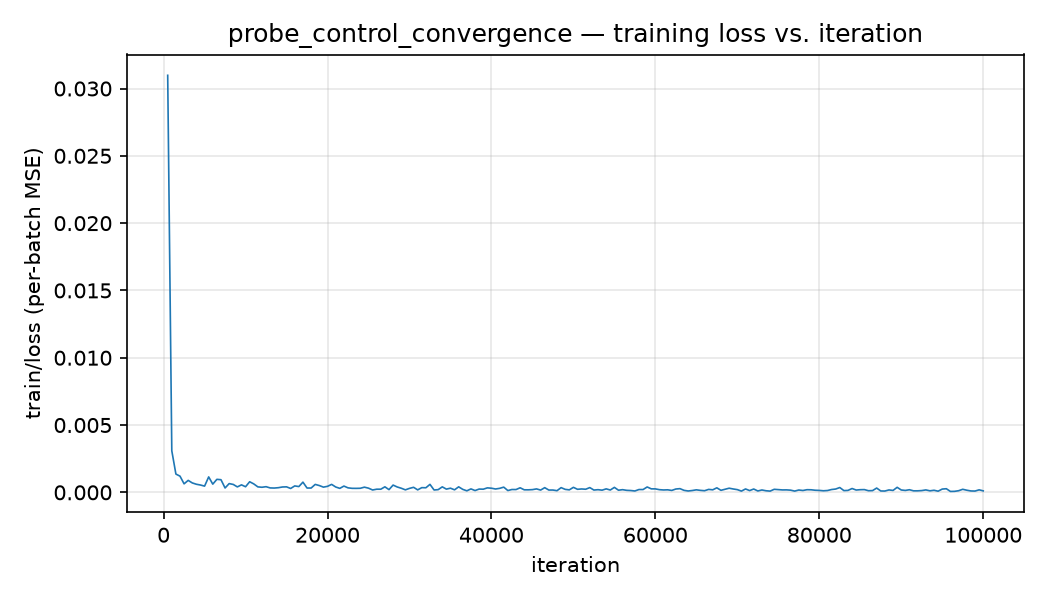
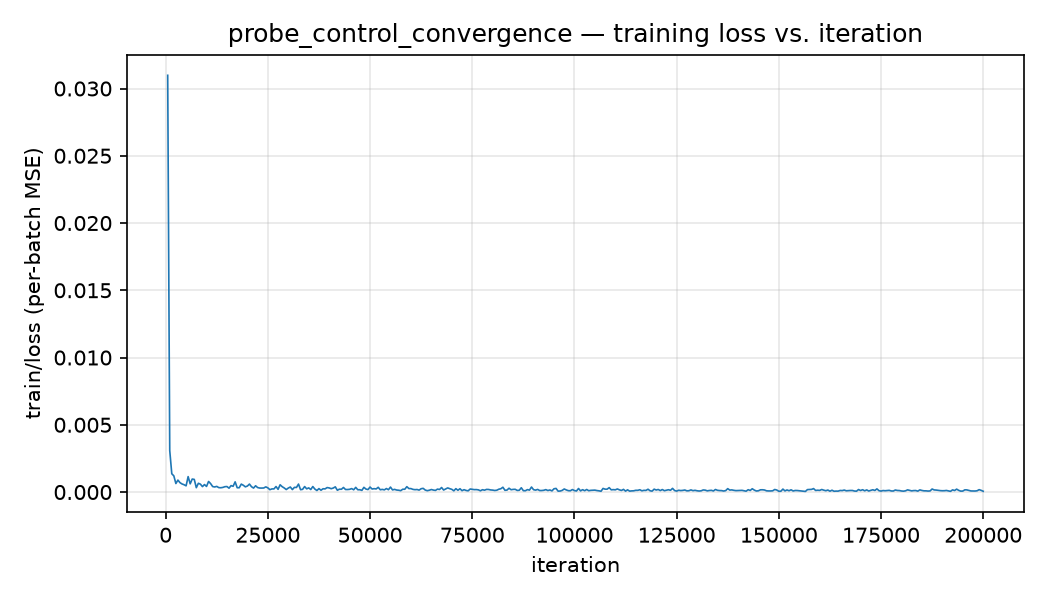
Phase 6 Step 1: extend convergence probe to 200k -- knee found, curve+data finalized
Second extension (150k -> 200k) after the first (100k -> 150k) also showed no
plateau on the real full-eval-set metric. This one finally shows one:

  150k 50.069  162.5k 49.315 (-0.603/10k)  175k 50.217 (+0.722/10k)
  187.5k 50.416 (+0.159/10k)  200k 50.778 (+0.290/10k)

187.5k and 200k are the first two CONSECUTIVE blocks anywhere in the whole
25k-200k curve both under +0.3 dB/10k -- the genuine deceleration signature
that was absent through 150k. See D-033 for the full table and reasoning;
this commit carries the artifacts that evidence rests on:

  - full_eval_set_psnr.csv: the durable record of every full 75-view
    eval-set PSNR measurement (25k through 200k), independent of the noisy
    5-view TensorBoard proxy that misled the first two reads of this curve.
  - README.md in the same directory, pointing future readers at the real
    metric rather than the proxy that curves.csv/val_psnr_subset.png also
    contain (train/loss + train/psnr + the 5-view val subset, unchanged in
    kind from before, just now spanning the full 0-200000 range across all
    five underlying tb event files).
  - probe_control_convergence.yaml's own iterations: 150000 -> 200000 edit,
    the last of three extensions this investigation needed.

No config change to the 8 real sweep condition configs: iterations=200000,
batch_size=1024 and lr_decay_steps=500000 were already locked in during
D-032 (batch_size/lr_decay_steps) and via base.yaml's pre-existing default
[…]

diff --git a/experiments/results/phase6/probe_control_convergence/README.md b/experiments/results/phase6/probe_control_convergence/README.md
@@ -1,0 +1,15 @@
+# Control convergence probe — full eval-set PSNR (not the noisy 5-view proxy)
+
+`curves.csv` / `train_loss.png` / `val_psnr_subset.png` come from
+`scripts/export_tb_curves.py`, reading TensorBoard scalars logged *during*
+training. `val_psnr_subset` there is a 5-view proxy (`i_val[:5]`, per
+`src/nerf/training.py`'s periodic in-training check) — cheap, but noisy
+enough that reading a plateau or a dip off it directly was actively
+misleading (see D-033).
+
+**`full_eval_set_psnr.csv` is the real metric**: the full 75-view frozen
+`eval_holdout` set, run independently via `scripts/evaluate.py` against each
+saved checkpoint, exactly as Phase 6's condition runs will be scored. This is
+what the iteration-count decision (D-033) was actually based on, and what
+should be cited if this curve is referenced again — not the TensorBoard
+`val_psnr_subset` series.
